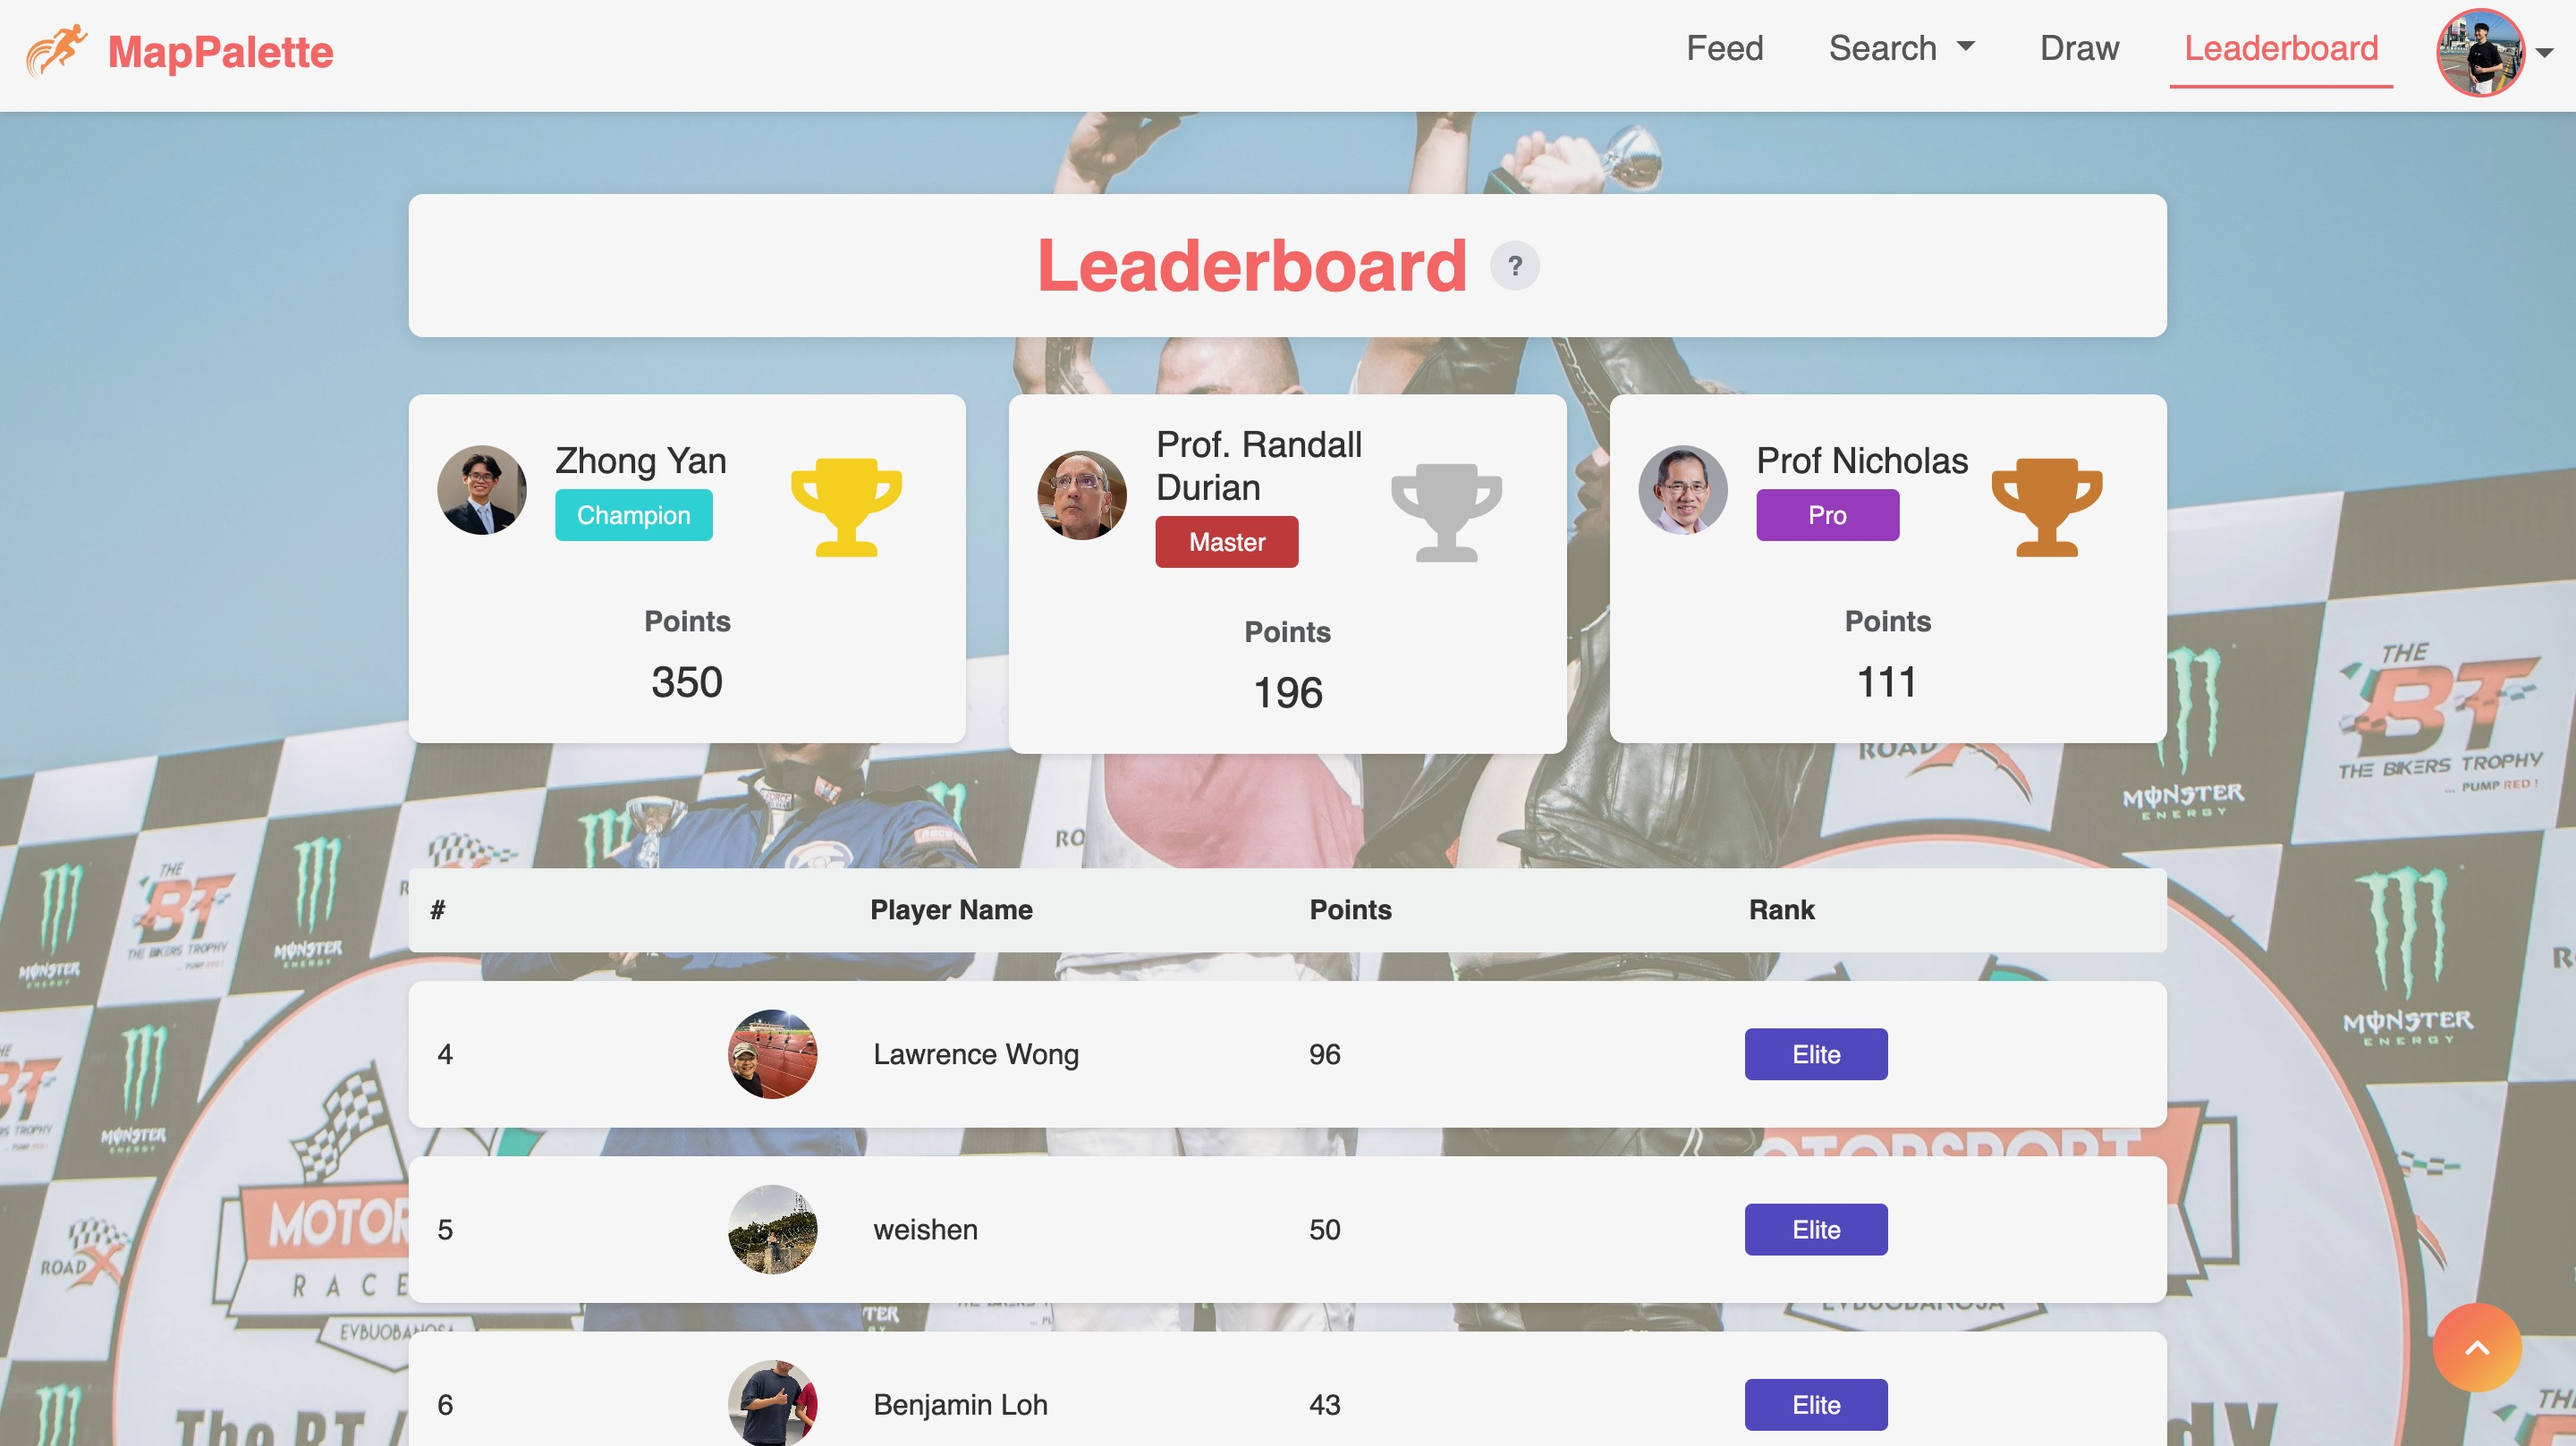
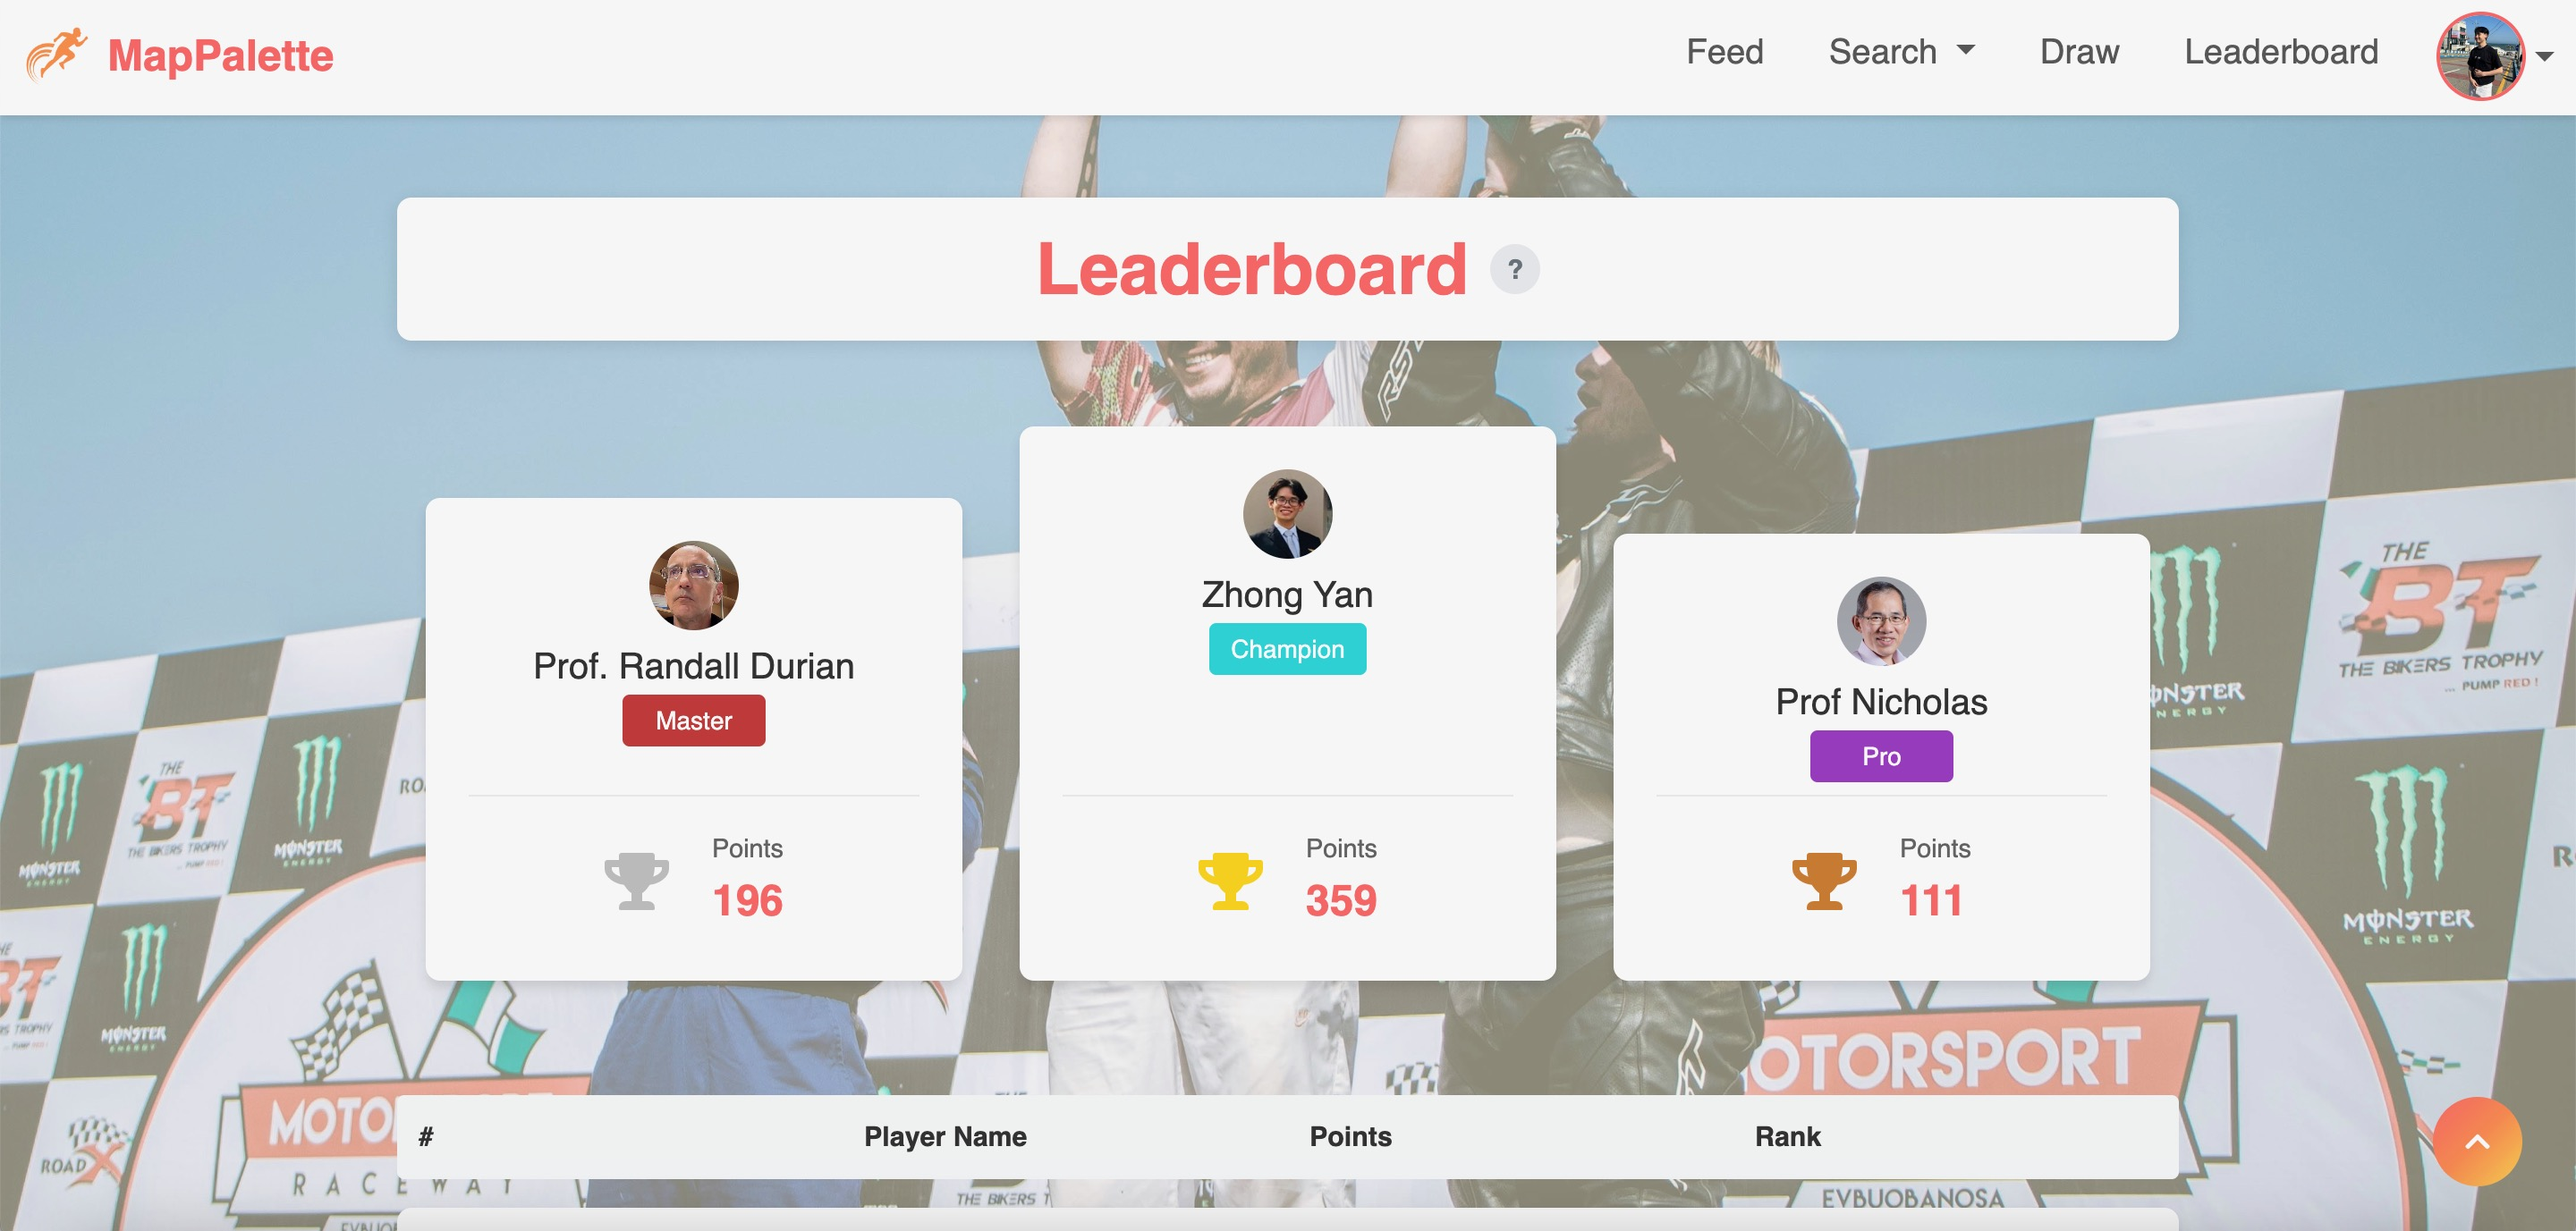
LEADERBOARD UPDATES
podium style implemented

diff --git a/public/leaderboard.html b/public/leaderboard.html
@@ -172,11 +172,11 @@
 
         .player-card:hover {
             transform: translateX(5px);
-            background-color: #f8f9fa;
+            background-color: #f8f9fa !important;
         }
 
         .current-user-card {
-            background-color: #ffe6e6;
+            background-color: #ffe6e6 !important;
             border: 2px solid #FF6B6B !important;
         }
 
@@ -302,6 +302,77 @@
                 white-space: nowrap;
             }
         }
+
+        .podium-container {
+            display: grid;
+            grid-template-columns: repeat(3, minmax(200px, 300px));
+            gap: 2rem;
+            justify-content: center;
+            align-items: flex-end;
+            margin: 3rem auto;
+            padding: 0 1rem;
+        }
+        
+        .podium-position {
+            display: flex;
+            flex-direction: column;
+        }
+        
+        .podium-second { order: 1; }
+        .podium-first { order: 2; }
+        .podium-third { order: 3; }
+        
+        .player-card {
+            background-color: white;
+            border-radius: 8px;
+            padding: 1.5rem;
+            display: flex;
+            flex-direction: column;
+            box-shadow: 0 4px 6px rgba(0, 0, 0, 0.1);
+        }
+        
+        .podium-first .player-card { height: 310px; }
+        .podium-second .player-card { height: 270px; }
+        .podium-third .player-card { height: 250px; }
+        
+        .player-info {
+            flex-grow: 1;
+        }
+        
+        .points-section {
+            border-top: 1px solid #eee;
+            margin-top: auto;
+            padding-top: 1rem;
+            display: flex;
+            align-items: center;
+            justify-content: center;
+            gap: 1rem;
+            height: 80px; /* Fixed height for alignment */
+        }
+        
+        .trophy-icon {
+            font-size: 2rem;
+        }
+        
+        .gold-trophy { color: #FFD700; }
+        .silver-trophy { color: #C0C0C0; }
+        .bronze-trophy { color: #CD7F32; }
+        
+        .points-data {
+            text-align: left;
+        }
+        
+        .points-label {
+            color: #666;
+            font-size: 0.9rem;
+        }
+        
+        .points-number {
+            font-size: 1.5rem;
+            font-weight: bold;
+            color: #FF6B6B;
+        }
+        
     </style>
 </head>
 
@@ -343,34 +414,29 @@
                     </div>
                     
                     <!-- Top Players Section -->
-                    <div class="row mb-5">
+                    <div class="podium-container">
                         <template v-for="(user, index) in topPlayers" :key="user.userID">
-                            <div class="col-md-4">
-                                <div 
-                                    class="player-card"
-                                    :class="{ 'current-user-card bounce': isCurrentUser(user.userID) }"
-                                    @mouseenter="triggerConfetti(user.userID, index)">
-                                    <div class="d-flex align-items-center">
-                                        <img :src="user.profilePicture" :alt="user.username" class="profile-pic me-3">
-                                        <div>
-                                            <h5 class="mb-1">{{ user.username }}</h5>
-                                            <span :class="'rank-badge rank-' + getRank(index)">{{ getRankDisplay(index) }}</span>
-                                        </div>
-                                        <div class="ms-auto">
-                                            <i class="fas fa-trophy trophy-icon" 
-                                            :class="{'silver-trophy': index === 1, 'bronze-trophy': index === 2}"
-                                            style="font-size:55px; margin-right: 20px; margin-top: 20px;"></i>
-                                        </div>
-                                    </div>
-                                    <div class="text-center mt-4">
-                                        <div class="fw-bold text-muted mb-1">Points</div>
-                                        <div class="fs-4">{{ formatPoints(user.points) }}</div>
-                                    </div>
+                          <div :class="['podium-position', `podium-${index === 0 ? 'first' : index === 1 ? 'second' : 'third'}`]">
+                            <div class="player-card text-center">
+                              <div class="player-info">
+                                <img :src="user.profilePicture" :alt="user.username" class="profile-pic mb-2" />
+                                <h5 class="mb-1">{{ user.username }}</h5>
+                                <span :class="'rank-badge rank-' + getRank(index)">{{ getRankDisplay(index) }}</span>
+                              </div>
+                              <div class="points-section">
+                                <i class="fas fa-trophy trophy-icon" 
+                                  :class="{ 'gold-trophy': index === 0, 'silver-trophy': index === 1, 'bronze-trophy': index === 2 }"></i>
+                                <div class="points-data">
+                                  <div class="points-label">Points</div>
+                                  <div class="points-number">{{ formatPoints(user.points) }}</div>
                                 </div>
+                              </div>
                             </div>
+                          </div>
                         </template>
-                    </div>
-
+                      </div>
+                      
+                    
                     <!-- Leaderboard Table -->
                     <div class="table-header">
                         <div class="row align-items-center">
